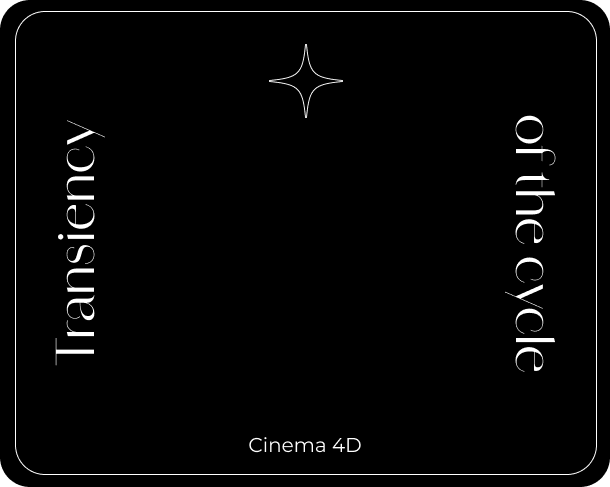
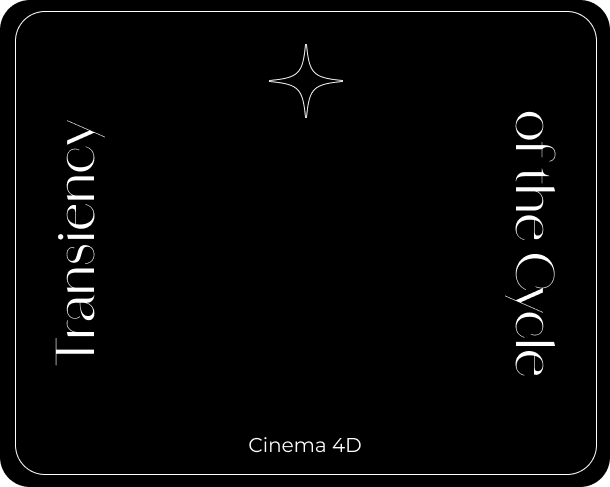
Add files via upload

Changed region(s): [[0.841, 0.2156, 0.9344, 0.77]]

diff --git a/works/graphicweb/oasis.html b/works/graphicweb/oasis.html
@@ -34,7 +34,7 @@
           <img src="/images/worksoutline2.png" alt="outline">
         </div>
         <div class="arrow"><a href="/works/uebersicht.html"> <img src="/images/arrow2.png" alt="arrow"></a></div>
-        <div class="text"> <p>The Oasis </p> <br> <h1>Figma/Photoshop/HTML, schoolproject</h1>  </div>
+        <div class="text"> <p>The Oasis </p> <br> <h1>Figma/Photoshop/HTML, schooIproject with Juliana N. Abrantes</h1>  </div>
         <div class="tasks"> <p>My Tasks: Create concept and choose a design style with Juliana, create navigation and distracted globe page, and programm everything. </p>  </div>
 
         <div class="video" style="padding:56.25% 0 0 0;position:relative;"><iframe src="https://player.vimeo.com/video/889704489?badge=0&amp;autopause=0&amp;quality_selector=1&amp;player_id=0&amp;app_id=58479" frameborder="0" allow="autoplay; fullscreen; picture-in-picture" style="position:absolute;top:0;left:0;width:100%;height:100%;" title="Unbenanntes Video (1)"></iframe></div>

diff --git a/works/graphicweb/glacierwaterweb.html b/works/graphicweb/glacierwaterweb.html
@@ -34,7 +34,7 @@
           <img src="/images/worksoutline3.png" alt="outline">
         </div>
         <div class="arrow"><a href="/works/uebersicht.html"> <img src="/images/arrow2.png" alt="arrow"></a></div>
-        <div class="text"> <p>Glacier Water Website </p> <br> <h1>Figma, schoolproject</h1>  </div>
+        <div class="text"> <p>Glacier Water Website </p> <br> <h1>Figma, schooIproject</h1>  </div>
         
 
     <div class="video" style="padding:75% 0 0 0;position:relative;"><iframe src="https://player.vimeo.com/video/889700632?badge=0&amp;autopause=0&amp;quality_selector=1&amp;player_id=0&amp;app_id=58479" frameborder="0" allow="autoplay; fullscreen; picture-in-picture" style="position:absolute;top:0;left:0;width:100%;height:100%;" title="Unbenanntes Video"></iframe></div><script src="https://player.vimeo.com/api/player.js"></script>

diff --git a/works/dreid/transiency/transiency.html b/works/dreid/transiency/transiency.html
@@ -34,7 +34,7 @@
           <img src="/images/worksoutline.png" alt="outline">
         </div>
         <div class="arrow"><a href="/works/uebersicht.html"> <img src="/images/arrow2.png" alt="arrow"></a></div>
-        <div class="transiency"> <p>Transiency of the cycle </p> <br> <h1>Cinema 4D, Schoolproject with Juliana N. Abrantes and Sofiia Yaremchuk</h1>  </div>
+        <div class="transiency"> <p>Transiency of the Cycle </p> <br> <h1>Cinema 4D, schooIproject with Juliana N. Abrantes and Sofiia Yaremchuk</h1>  </div>
         <div class="tasks"> <p>My Tasks: Create concept, model hand and lamps, design composition together with Juliana </p>  </div>
         <div class="image">
           <img src="/images/projekte/TransiencyOfTheCycle.png" alt="image">

diff --git a/works/illustration/veilsofvirtue.html b/works/illustration/veilsofvirtue.html
@@ -34,7 +34,7 @@
           <img src="/images/worksoutline2.png" alt="outline">
         </div>
         <div class="arrow"><a href="/works/uebersicht.html"> <img src="/images/arrow2.png" alt="arrow"></a></div>
-        <div class="text"> <p>Veils of Virtue </p> <br> <h1>Procreate and Figma, schoolproject</h1>  </div>
+        <div class="text"> <p>Veils of Virtue </p> <br> <h1>Procreate and Figma, schooIproject</h1>  </div>
         <div class="tasks"> <p>Web story about Cards that read the future. Work in progress, updated regularly</p>  </div>
         <div class="image">
             <img src="/images/projekte/VeilsOfVirtue1.png" alt="image">

diff --git a/works/graphicweb/albumcover.html b/works/graphicweb/albumcover.html
@@ -34,7 +34,7 @@
           <img src="/images/worksoutline2.png" alt="outline">
         </div>
         <div class="arrow"><a href="/works/uebersicht.html"> <img src="/images/arrow2.png" alt="arrow"></a></div>
-        <div class="text"> <p>Album Cover "Disrupted" </p> <br> <h1>Photoshop, schoolproject</h1>  </div>
+        <div class="text"> <p>AIbum Cover "Disrupted" </p> <br> <h1>Photoshop, schooIproject</h1>  </div>
         <div class="tasks"> <p>Fictional album cover for a graphic design module.</p>  </div>
         <div class="image">
             <img src="/images/projekte/AlbumCover2.png" alt="image">

diff --git a/works/dreid/glacierwater/glacierwater.html b/works/dreid/glacierwater/glacierwater.html
@@ -34,7 +34,7 @@
           <img src="/images/worksoutline2.png" alt="outline">
         </div>
         <div class="arrow"><a href="/works/uebersicht.html"> <img src="/images/arrow2.png" alt="arrow"></a></div>
-        <div class="text"> <p>Glacier Water 3D Models </p> <br> <h1>Blender, Schoolproject, Productdesign of a Web Project</h1>  </div>
+        <div class="text"> <p>Glacier Water 3D Models </p> <br> <h1>Blender, schooIproject, Productdesign of a Web Project</h1>  </div>
 
         <div class="imagetwo">
           <img src="/images/projekte/GlacierWater2.png" alt="imagetwo">

diff --git a/works/illustration/rootcreatures.html b/works/illustration/rootcreatures.html
@@ -34,7 +34,7 @@
           <img src="/images/worksoutline.png" alt="outline">
         </div>
         <div class="arrow"><a href="/works/uebersicht.html"> <img src="/images/arrow2.png" alt="arrow"></a></div>
-        <div class="text"> <p>Root Creatures </p> <br> <h1>Procreate, schoolproject</h1>  </div>
+        <div class="text"> <p>Root Creatures </p> <br> <h1>Procreate, schooIproject</h1>  </div>
         <div class="tasks"> <p>Inspired by Codex Seraphinianus.</p>  </div>
         <div class="image">
             <img src="/images/projekte/rootcreatures.jpg" alt="image">

diff --git a/works/graphicweb/futura.html b/works/graphicweb/futura.html
@@ -34,7 +34,7 @@
           <img src="/images/worksoutline2.png" alt="outline">
         </div>
         <div class="arrow"><a href="/works/uebersicht.html"> <img src="/images/arrow2.png" alt="arrow"></a></div>
-        <div class="text"> <p>Futura Poster </p> <br> <h1>Indesign, schoolproject</h1>  </div>
+        <div class="text"> <p>Futura Poster </p> <br> <h1>InDesign, schooIproject</h1>  </div>
         <div class="tasks"> <p>Poster characterising the "Futura" font.</p>  </div>
         <div class="image">
             <img src="/images/projekte/Futura2.jpg" alt="image">

diff --git a/works/dreid/upsidedown/upsidedown.html b/works/dreid/upsidedown/upsidedown.html
@@ -34,7 +34,7 @@
           <img src="/images/worksoutline.png" alt="outline">
         </div>
         <div class="arrow"><a href="/works/uebersicht.html"> <img src="/images/arrow2.png" alt="arrow"></a></div>
-        <div class="text"> <p>Upside down </p> <br> <h1>Blender, schoolproject</h1>  </div>
+        <div class="text"> <p>Upside Down </p> <br> <h1>Blender, schooIproject</h1>  </div>
         
         <div class="imageone">
           <img src="/images/projekte/UpsideDown1.png" alt="imageone">

diff --git a/works/uebersicht.css b/works/uebersicht.css
@@ -253,7 +253,7 @@ width: 10vh;
   left: 0;
   bottom: 0; 
   right: 0;
-  opacity: 0.4;
+  opacity: 0.2;
   transition-duration: 0.2s;
 }
 

diff --git a/works/dreid/transiency/transiency.css b/works/dreid/transiency/transiency.css
@@ -94,7 +94,7 @@ nav {
 
 
 .transiency{
-    grid-column: 2/ span 7;
+    grid-column: 2/ span 8;
     grid-row: 4;
 
 }
